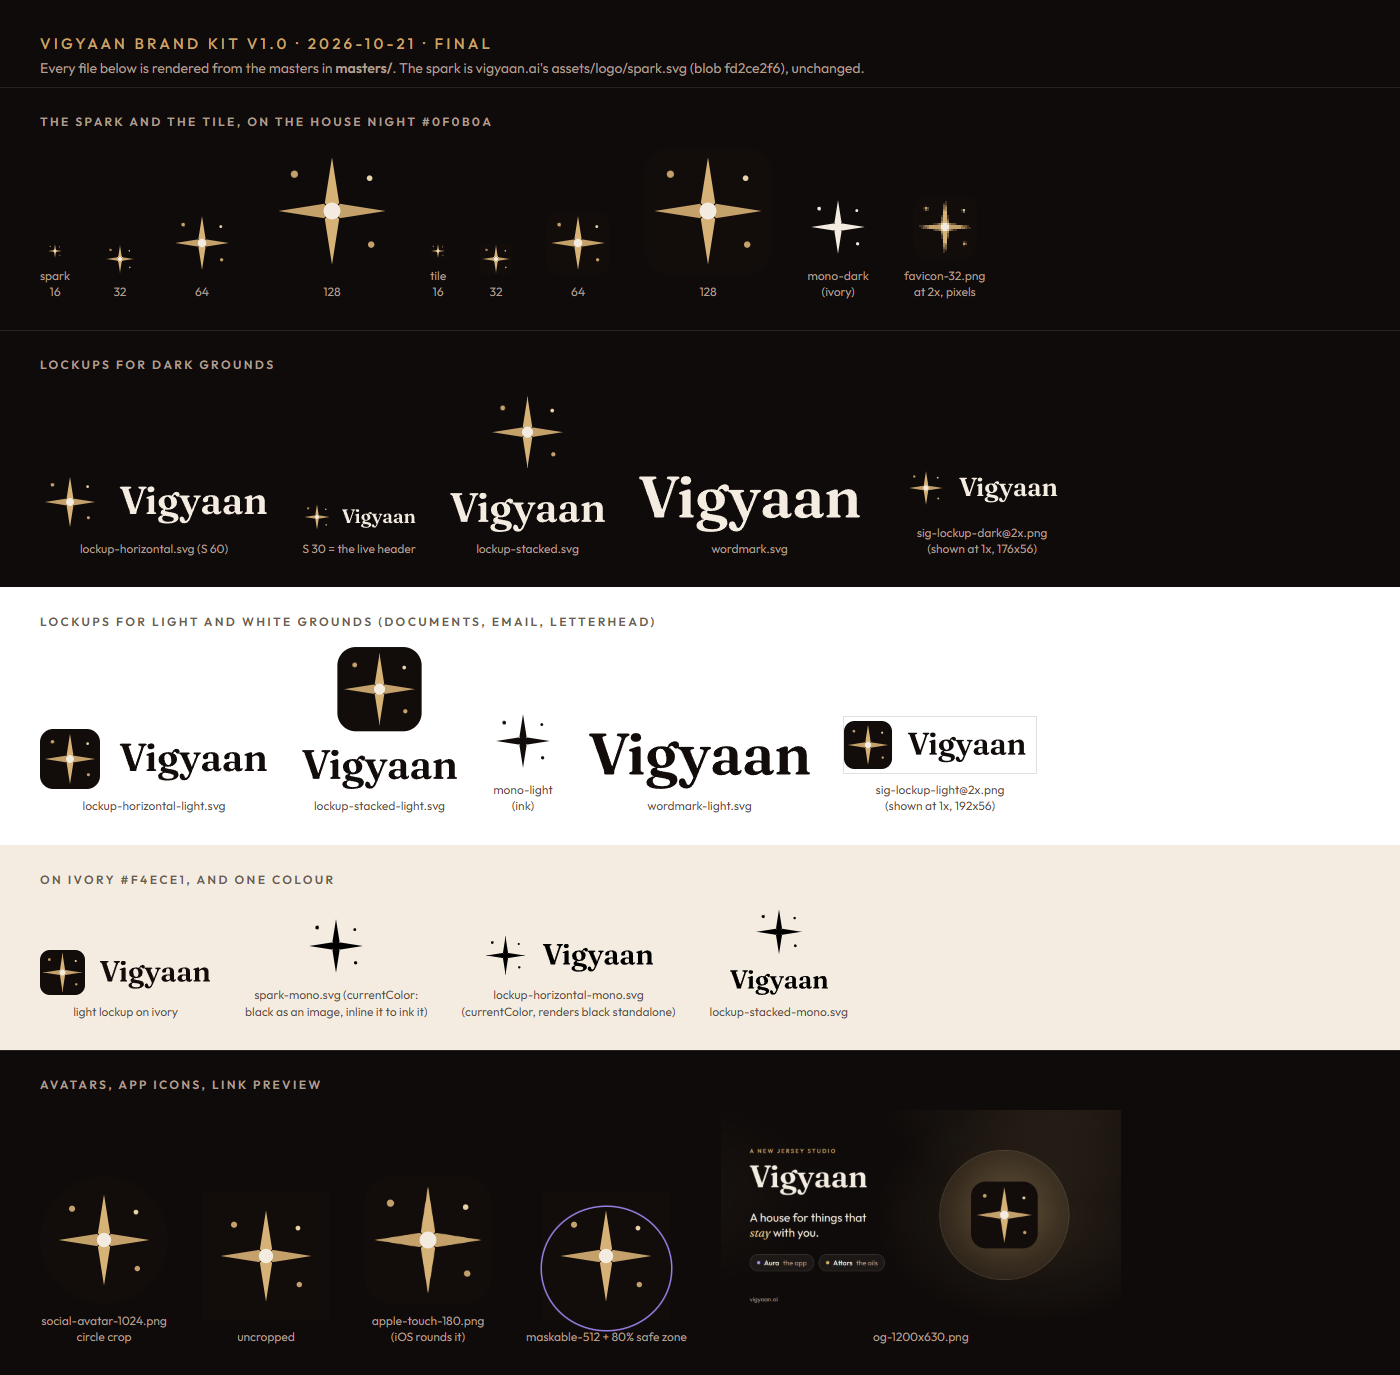
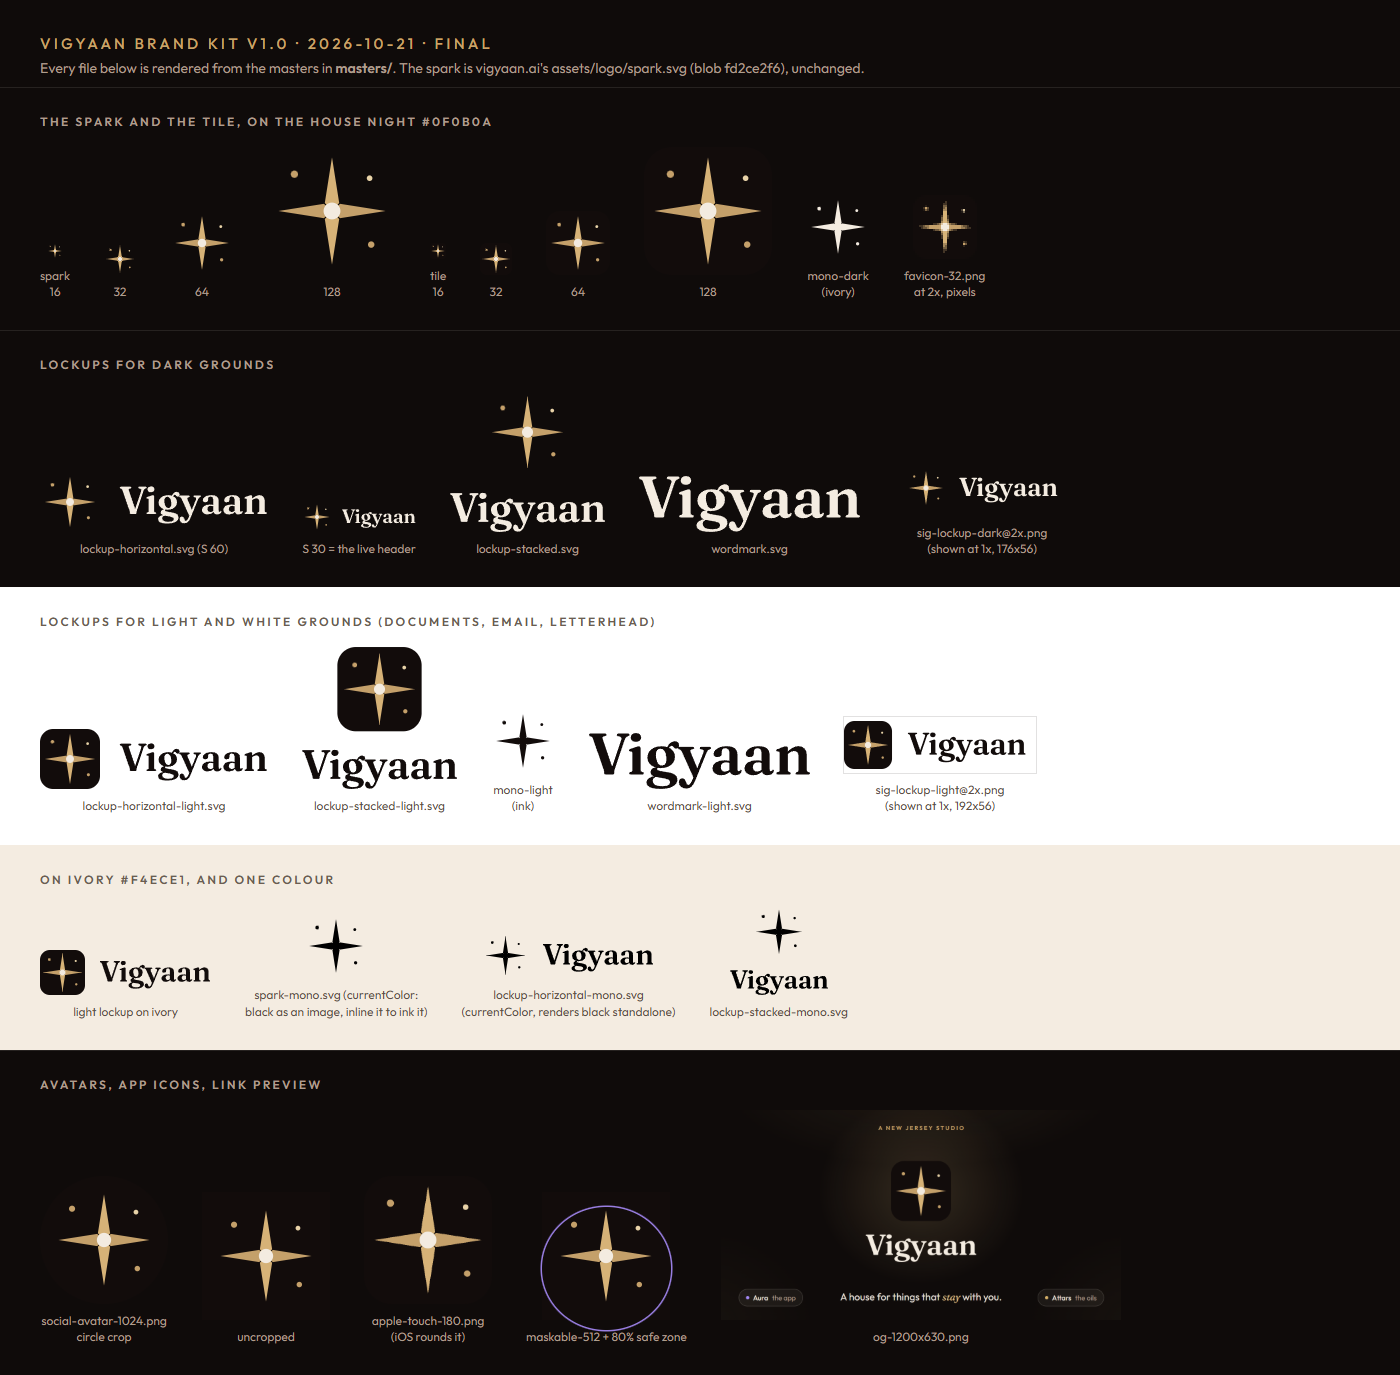
feat(brand): the link-preview card is his pick, Option A - tile centred above the ivory word; re-pin SHA256SUMS
On the founder's word, before release (v1.0 is not merged or deployed). Asked about the square-crop
gap ("The kit isn't live yet, so it can still be fixed before it's locked. What should I do?") he
answered "Fix it first"; asked "Which link picture should go into the logo kit?" after seeing
Now / Option A / Option B, he answered "Option A (Recommended)".

- exports/social/og-1200x630.png and .jpg: rebuilt through the kit's own, unmodified pipeline
  (source/shotpage.mjs at 1200x630, DPR 1; Pillow q90, progressive, 4:4:4). Byte-identical to
  the judged Option A card: png 367b0bb0...f48c, jpg 79119b47...21b9. Outfit and Fraunces italic
  painted the text as web fonts (CSS.getPlatformFontsForNode).
- source/og.html: the judged og-A.html; only its first two comment lines are rewritten (they
  called it "NOT a kit file").
- contact-sheet.png: re-shot from source/sheet.html (the same recipe first re-made the old sheet
  byte for byte); only the card's figure changed.
- BRAND.md: header paragraph, section 3 describes the card and declares the tile + ivory word
  approved for it by his pick, section 8 one parenthesis. VERSION: a second changed: line that
  quotes his answers.
- SHA256SUMS regenerated; tools/lint.mjs SUMS_SHA ab69ca8e...dd96 -> 87aabf54...df9e (also the
  local README.md pin). No master, other export or signature file changed.

Changed region(s): [[0.5221, 0.8247, 0.7679, 0.9469]]

diff --git a/brand/v1.0/source/og.html b/brand/v1.0/source/og.html
@@ -1,42 +1,68 @@
 <!doctype html><html><head><meta charset="utf-8">
-<!-- Vigyaan brand kit v1.0 — the house link-preview card (1200x630), in the style of assets/og/aura.jpg and og/attars.jpg.
-     The wordmark and the tile are the kit's outlined masters (no font involved); only the supporting copy uses Outfit / Fraunces from Google Fonts. -->
+<!-- Vigyaan brand kit v1.0 — the house link-preview card (1200x630): the founder's pick "Option A" (2026-10-21), the tile centred above the ivory word.
+     It replaced the first v1.0 card (word left, tile right) before release, on his word (VERSION). The same fonts, night ground family and chips; the same copy or less (no new claims).
+     The tile and the word are the kit's masters (spark-tile.svg, wordmark.svg) placed as files and scaled uniformly, in the geometry of the
+     kit's stacked lockup (masters/lockup-stacked*.svg, viewBox 0 0 55.178 50.53 at S = 30): the box S centred above the word, the word's
+     ink 1.83927 S wide, 0.22 S from the bottom of the box to the word's ink top. Clear space 0.5 S on every side (BRAND.md section 7),
+     and all of it (tile + word + clear space) inside the centre square x 285..915. No effect touches the mark: the warm glow is the ground. -->
 <link rel="stylesheet" href="https://fonts.googleapis.com/css2?family=Fraunces:ital,opsz,wght@0,9..144,400..700;1,9..144,400..700&family=Outfit:wght@300..600&display=swap">
 <style>
 *{margin:0;padding:0;box-sizing:border-box}
 html,body{width:1200px;height:630px;overflow:hidden;-webkit-font-smoothing:antialiased}
-body{position:relative;font-family:"Outfit",system-ui,sans-serif;color:#f4ece1;
-  background:
-    radial-gradient(760px 520px at 78% 50%, rgba(201,164,106,.14), transparent 64%),
-    radial-gradient(900px 520px at 85% -8%, rgba(201,164,106,.13), transparent 62%),
-    radial-gradient(700px 500px at -10% 40%, rgba(201,164,106,.06), transparent 60%),
-    #0f0b0a}
-.l{position:absolute;left:86px;top:0;width:600px}
-.eb{position:absolute;top:112px;font-weight:600;font-size:17px;letter-spacing:.24em;text-transform:uppercase;color:#c9a46a}
-.wm{position:absolute;top:166px;left:0;display:block}
-.sub{position:absolute;top:300px;font-weight:400;font-size:35px;line-height:1.28;color:#f4ece1;width:560px}
+body{position:relative;font-family:"Outfit",system-ui,sans-serif;color:#f4ece1;background:#0f0b0a}
+.eb{position:absolute;left:0;width:1200px;text-align:center;font-weight:600;font-size:17px;line-height:20px;letter-spacing:.24em;text-indent:.24em;text-transform:uppercase;color:#c9a46a}
+.tile,.wm{position:absolute;display:block}
+.sub{position:absolute;left:0;width:1200px;text-align:center;font-weight:400;font-size:30px;line-height:38px;color:#f4ece1}
 .sub em{font-family:"Fraunces",serif;font-style:italic;font-weight:420;color:#e2c48e}
-.chips{position:absolute;top:432px;display:flex;gap:14px}
-.chip{display:inline-flex;align-items:center;gap:11px;height:52px;padding:0 22px;border-radius:999px;background:rgba(244,236,225,.06);box-shadow:inset 0 0 0 1.5px rgba(244,236,225,.18);font-weight:500;font-size:21px;color:#f4ece1}
+.chip{position:absolute;display:inline-flex;align-items:center;gap:11px;height:52px;padding:0 22px;border-radius:999px;background:rgba(244,236,225,.06);box-shadow:inset 0 0 0 1.5px rgba(244,236,225,.18);font-weight:500;font-size:21px;color:#f4ece1;white-space:nowrap}
 .chip i{width:10px;height:10px;border-radius:50%;display:block}
 .chip small{font-size:21px;font-weight:400;color:#ae9e8e}
-.ft{position:absolute;top:556px;font-size:18px;color:#ae9e8e;letter-spacing:.01em}
-.disc{position:absolute;left:655px;top:120px;width:390px;height:390px;border-radius:50%;
-  background:radial-gradient(circle at 50% 46%, rgba(214,178,119,.34), rgba(196,160,106,.16) 58%, rgba(196,160,106,.07) 100%);
-  box-shadow:inset 0 0 0 1.5px rgba(232,211,168,.22)}
-.tile{position:absolute;left:750px;top:215px;width:200px;height:200px;display:block}
 </style></head><body>
-<div class="l">
-  <p class="eb">A New Jersey studio</p>
-  <img class="wm" id="wm" src="WM" alt="Vigyaan">
-  <p class="sub">A house for things that<br><em>stay</em> with you.</p>
-  <div class="chips"><span class="chip"><i style="background:#a78bfa"></i>Aura <small>the app</small></span><span class="chip"><i style="background:#d9b26a"></i>Attars <small>the oils</small></span></div>
-  <p class="ft">vigyaan.ai</p>
-</div>
-<div class="disc"></div>
-<img class="tile" src="TILE" alt="">
+<p class="eb" id="eb">A New Jersey studio</p>
+<img class="tile" id="tile" src="TILE" alt="">
+<img class="wm" id="wm" src="WM" alt="Vigyaan">
+<p class="sub" id="sub">A house for things that <em>stay</em> with you.</p>
+<span class="chip" id="c1"><i style="background:#a78bfa"></i>Aura <small>the app</small></span>
+<span class="chip" id="c2"><i style="background:#d9b26a"></i>Attars <small>the oils</small></span>
 <script>
-// wordmark: 66 px from its ink top to its baseline (13.791 of the master's 18.573-unit ink height)
-const k = 66 / 13.791, w = document.getElementById('wm'); w.style.width = (73.571 * k) + 'px'; w.style.height = (18.573 * k) + 'px';
+// geometry, all from the stacked-lockup master (masters/lockup-stacked.svg, viewBox 0 0 55.178 50.53 at S = 30)
+const S = 180;                              // the tile box, px; even, so the tile lands on whole pixels at x = 600 - S/2
+const WMW = 55.178 / 30 * S;                // word ink width  = 1.83927 S
+const WMH = WMW * 18.573 / 73.571;          // word ink height (wordmark.svg's viewBox is its ink box, 73.571 x 18.573)
+const GAP = 0.22 * S;                       // bottom of the box -> the word's ink top
+const LH = S + GAP + WMH;                   // lockup height = 1.68433 S
+const CS = 0.5 * S;                         // clear space around a lockup, BRAND.md section 7
+// one centred column, spaced on the text's INK (measured in this renderer: the eyebrow's capitals sit 3..17 px into its 20 px line,
+// the tagline's ink 8..38 px into its 38 px line), so the clear space is real and nothing is spent on empty line-box:
+// eyebrow ink | SAFE + 0.5 S | tile + word | 0.5 S + SAFE | tagline ink, centred in 630 with a 2 px optical lift
+const EB_IN = [3, 17], SUB_IN = [8, 38], SAFE = 2;
+const span = (EB_IN[1] - EB_IN[0]) + SAFE + CS + LH + CS + SAFE + (SUB_IN[1] - SUB_IN[0]);
+const inkTop = Math.round((630 - span) / 2) - 2;
+const y0 = inkTop - EB_IN[0];                                         // top of the eyebrow's line box
+const tileY = Math.round(inkTop + (EB_IN[1] - EB_IN[0]) + SAFE + CS), tileX = 600 - S / 2;
+const wmY = tileY + S + GAP, wmX = 600 - WMW / 2, zoneBot = wmY + WMH + CS;
+const subY = Math.ceil(zoneBot + SAFE - SUB_IN[0]);                   // top of the tagline's line box
+const $ = id => document.getElementById(id);
+Object.assign($('tile').style, { left: tileX + 'px', top: tileY + 'px', width: S + 'px', height: S + 'px' });
+Object.assign($('wm').style, { left: wmX + 'px', top: wmY + 'px', width: WMW + 'px', height: WMH + 'px' });
+$('eb').style.top = y0 + 'px';
+$('sub').style.top = subY + 'px';
+// the ground: house night #0f0b0a, the kit card's warm washes made symmetric, and a quiet glow centred on the tile (ground only)
+document.body.style.background = [
+  `radial-gradient(420px 380px at 600px ${tileY + S / 2}px, rgba(214,178,119,.19), rgba(196,160,106,.08) 46%, rgba(196,160,106,0) 74%)`,
+  `radial-gradient(980px 420px at 50% -14%, rgba(201,164,106,.10), transparent 62%)`,
+  `radial-gradient(620px 520px at -6% 104%, rgba(201,164,106,.05), transparent 60%)`,
+  `radial-gradient(620px 520px at 106% 104%, rgba(201,164,106,.05), transparent 60%)`,
+  '#0f0b0a'].join(',');
+// the two chips sit low, mirrored, their text on the tagline's baseline, outside the centre square (x < 285 and x > 915)
+const baseline = el => { const p = document.createElement('span'); p.style.cssText = 'display:inline-block;width:0;height:0;vertical-align:baseline';
+  el.appendChild(p); const y = p.getBoundingClientRect().top; p.remove(); return y; };
+const place = () => {
+  const c1 = $('c1'), c2 = $('c2'), b = baseline($('sub'));
+  for (const [c, cx] of [[c1, 150], [c2, 1050]]) { c.style.top = '0px'; const off = baseline(c.querySelector('small')) - c.getBoundingClientRect().top;
+    c.style.left = Math.round(cx - c.getBoundingClientRect().width / 2) + 'px'; c.style.top = Math.round(b - off) + 'px'; }
+};
+place(); document.fonts.ready.then(place);
+window.__geom = { S, WMW, WMH, GAP, LH, CS, tileX, tileY, wmX, wmY, zoneTop: tileY - CS, zoneBot, y0, subY };
 </script>
 </body></html>

diff --git a/brand/v1.0/BRAND.md b/brand/v1.0/BRAND.md
@@ -4,7 +4,10 @@
 `ecc9f99e` (PR #20, the redesign that went live on vigyaan.ai that day). The founder
 approved the whole kit the same day. His words are in `VERSION`. A review before
 release then changed text and tooling only: the ™ rule in his own words, and a
-stricter `verify.ps1`. `VERSION` lists both (the `changed:` line). No logo file changed.
+stricter `verify.ps1` (the first `changed:` line in `VERSION`). Later that day, still
+before release and on his word, the link-preview card was replaced by the one he
+picked: the tile centred above the ivory word (section 3; the second `changed:` line).
+No master changed.
 
 **This version is final.** Nothing in this folder is ever edited, re-exported,
 replaced or deleted. A change to the mark happens only on the founder's explicit
@@ -120,8 +123,28 @@ of the one before.
 | `mono/` | `mono-light-` / `mono-dark-{64,128,256,512,1024}.png` | Transparent |
 | `lockup/` | `lockup-horizontal[-light]-h{32,48,64,128,256,512,1024}.png`, `lockup-stacked[-light]-h{48,64,128,256,512,1024}.png` | Transparent. No 16 px horizontal lockup: the word would be 10 px, below the minimum. No stacked lockup under 48 px. |
 | `icons/` | `favicon-16/32/48.png`, `favicon.ico` (16+32+48, the same pixels), `apple-touch-180.png` (opaque, full-bleed), `android-maskable-192/512.png` (opaque, 85%), `logo-512.png` (the tile) | For the website and app stores. `logo-512.png` is also the company logo wherever a square logo is asked for (Google's JSON-LD, mail and store developer pages). |
-| `social/` | `social-avatar-1024.png` (opaque, circle-safe), `og-1200x630.png` (+ `.jpg`, q90) | Avatars everywhere. The link-preview card follows the style of `assets/og/aura.jpg`. |
+| `social/` | `social-avatar-1024.png` (opaque, circle-safe), `og-1200x630.png` (+ `.jpg`, q90) | Avatars everywhere. The link-preview card is described below. |
 | `email/` | `sig-lockup-light@2x.png` (384×112, opaque white, shown at **192×56**), `sig-lockup-dark@2x.png` (352×112, opaque `#0f0b0a`, shown at **176×56**) | PNG on purpose, because Gmail and Outlook do not show SVG in mail. The backgrounds are opaque so dark-mode mail apps cannot drop the ink word onto black. |
+
+**The link-preview card** (`social/og-1200x630`, 1200 × 630, made from `source/og.html`):
+- The ground is the house night `#0f0b0a` with a warm glow behind the mark. The glow
+  is part of the ground. No effect touches the mark.
+- The tile (`spark-tile.svg`, S = 180 px) is centred above the ivory word
+  (`wordmark.svg`), in the stacked lockup's geometry: the word's ink is 1.84 S wide and
+  starts 0.22 S below the tile.
+- The clear space is 0.5 S (90 px) on every side, and all of it sits inside the card's
+  centre square (x 285–915). An app that shows a square cut from the middle of the card
+  still shows the tile and the whole word.
+- Above the mark: "A NEW JERSEY STUDIO" (Outfit). Below it: "A house for things that
+  *stay* with you." (Outfit; *stay* in Fraunces italic). Left and right, outside the
+  centre square: the Aura and Attars chips.
+- **The tile with the ivory word is approved for this card.** Neither stacked lockup
+  pairs them: `lockup-stacked.svg` has the bare spark with the ivory word, and
+  `lockup-stacked-light.svg` has the tile with the ink word. The founder approved this
+  card as shown, the pairing included, when he picked it on 21 October 2026 (`VERSION`,
+  the second `changed:` line). It is not a third lockup. Anywhere else, use the lockups
+  in section 2.
+- The `.jpg` is written by Pillow from the `.png`: quality 90, progressive, 4:4:4.
 
 `contact-sheet.png` shows all of them on their grounds.
 
@@ -216,7 +239,8 @@ of the one before.
 - Add ™ or ® to the logo. ™ belongs in website and packaging text, and ® is never
   used (section 1).
 - Rearrange the lockup (word on the left, a different gap or size) or invent new
-  lockups. Horizontal and stacked are the only two.
+  lockups. Horizontal and stacked are the only two. (The link-preview card's tile
+  above the ivory word, section 3, is approved for that card, not as a third lockup.)
 - Mix it with the Aura icon. **Aura is a separate brand**, with its own icon, its own
   violet world and its own ads. Aura says "by Vigyaan" in text ("by Vigyaan™" in
   website and packaging text, section 1) and never shows the spark.
